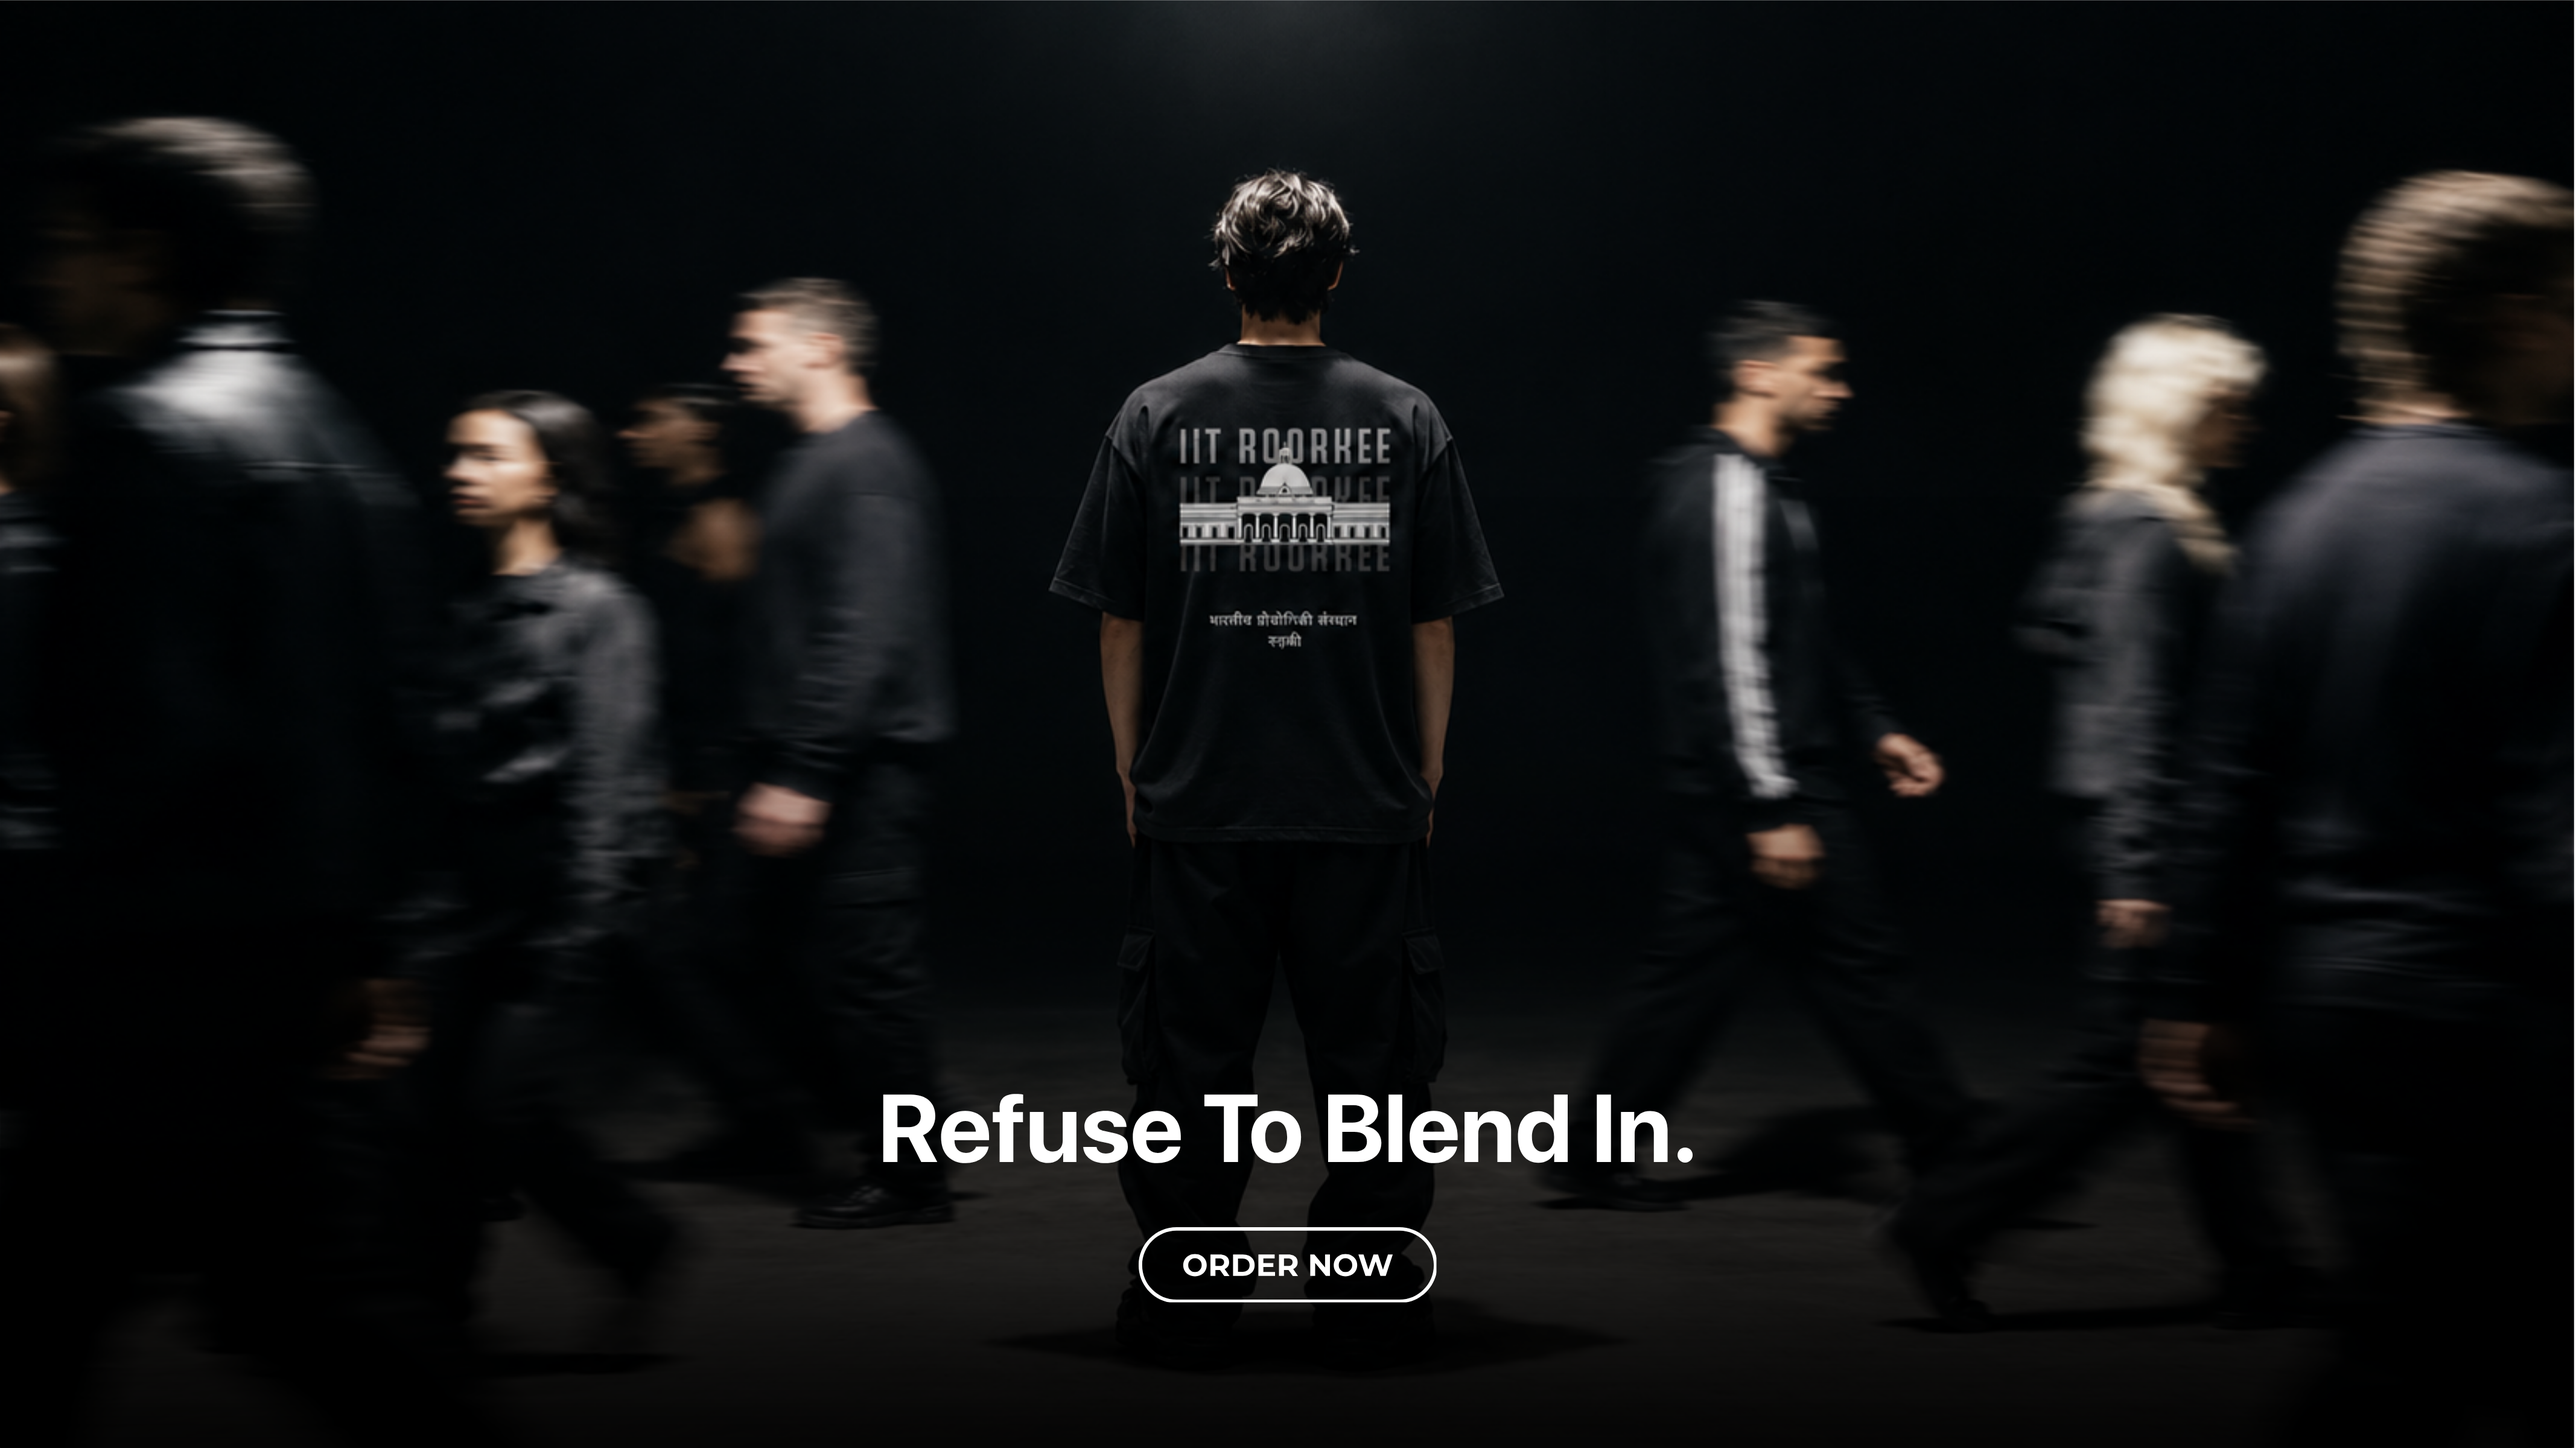
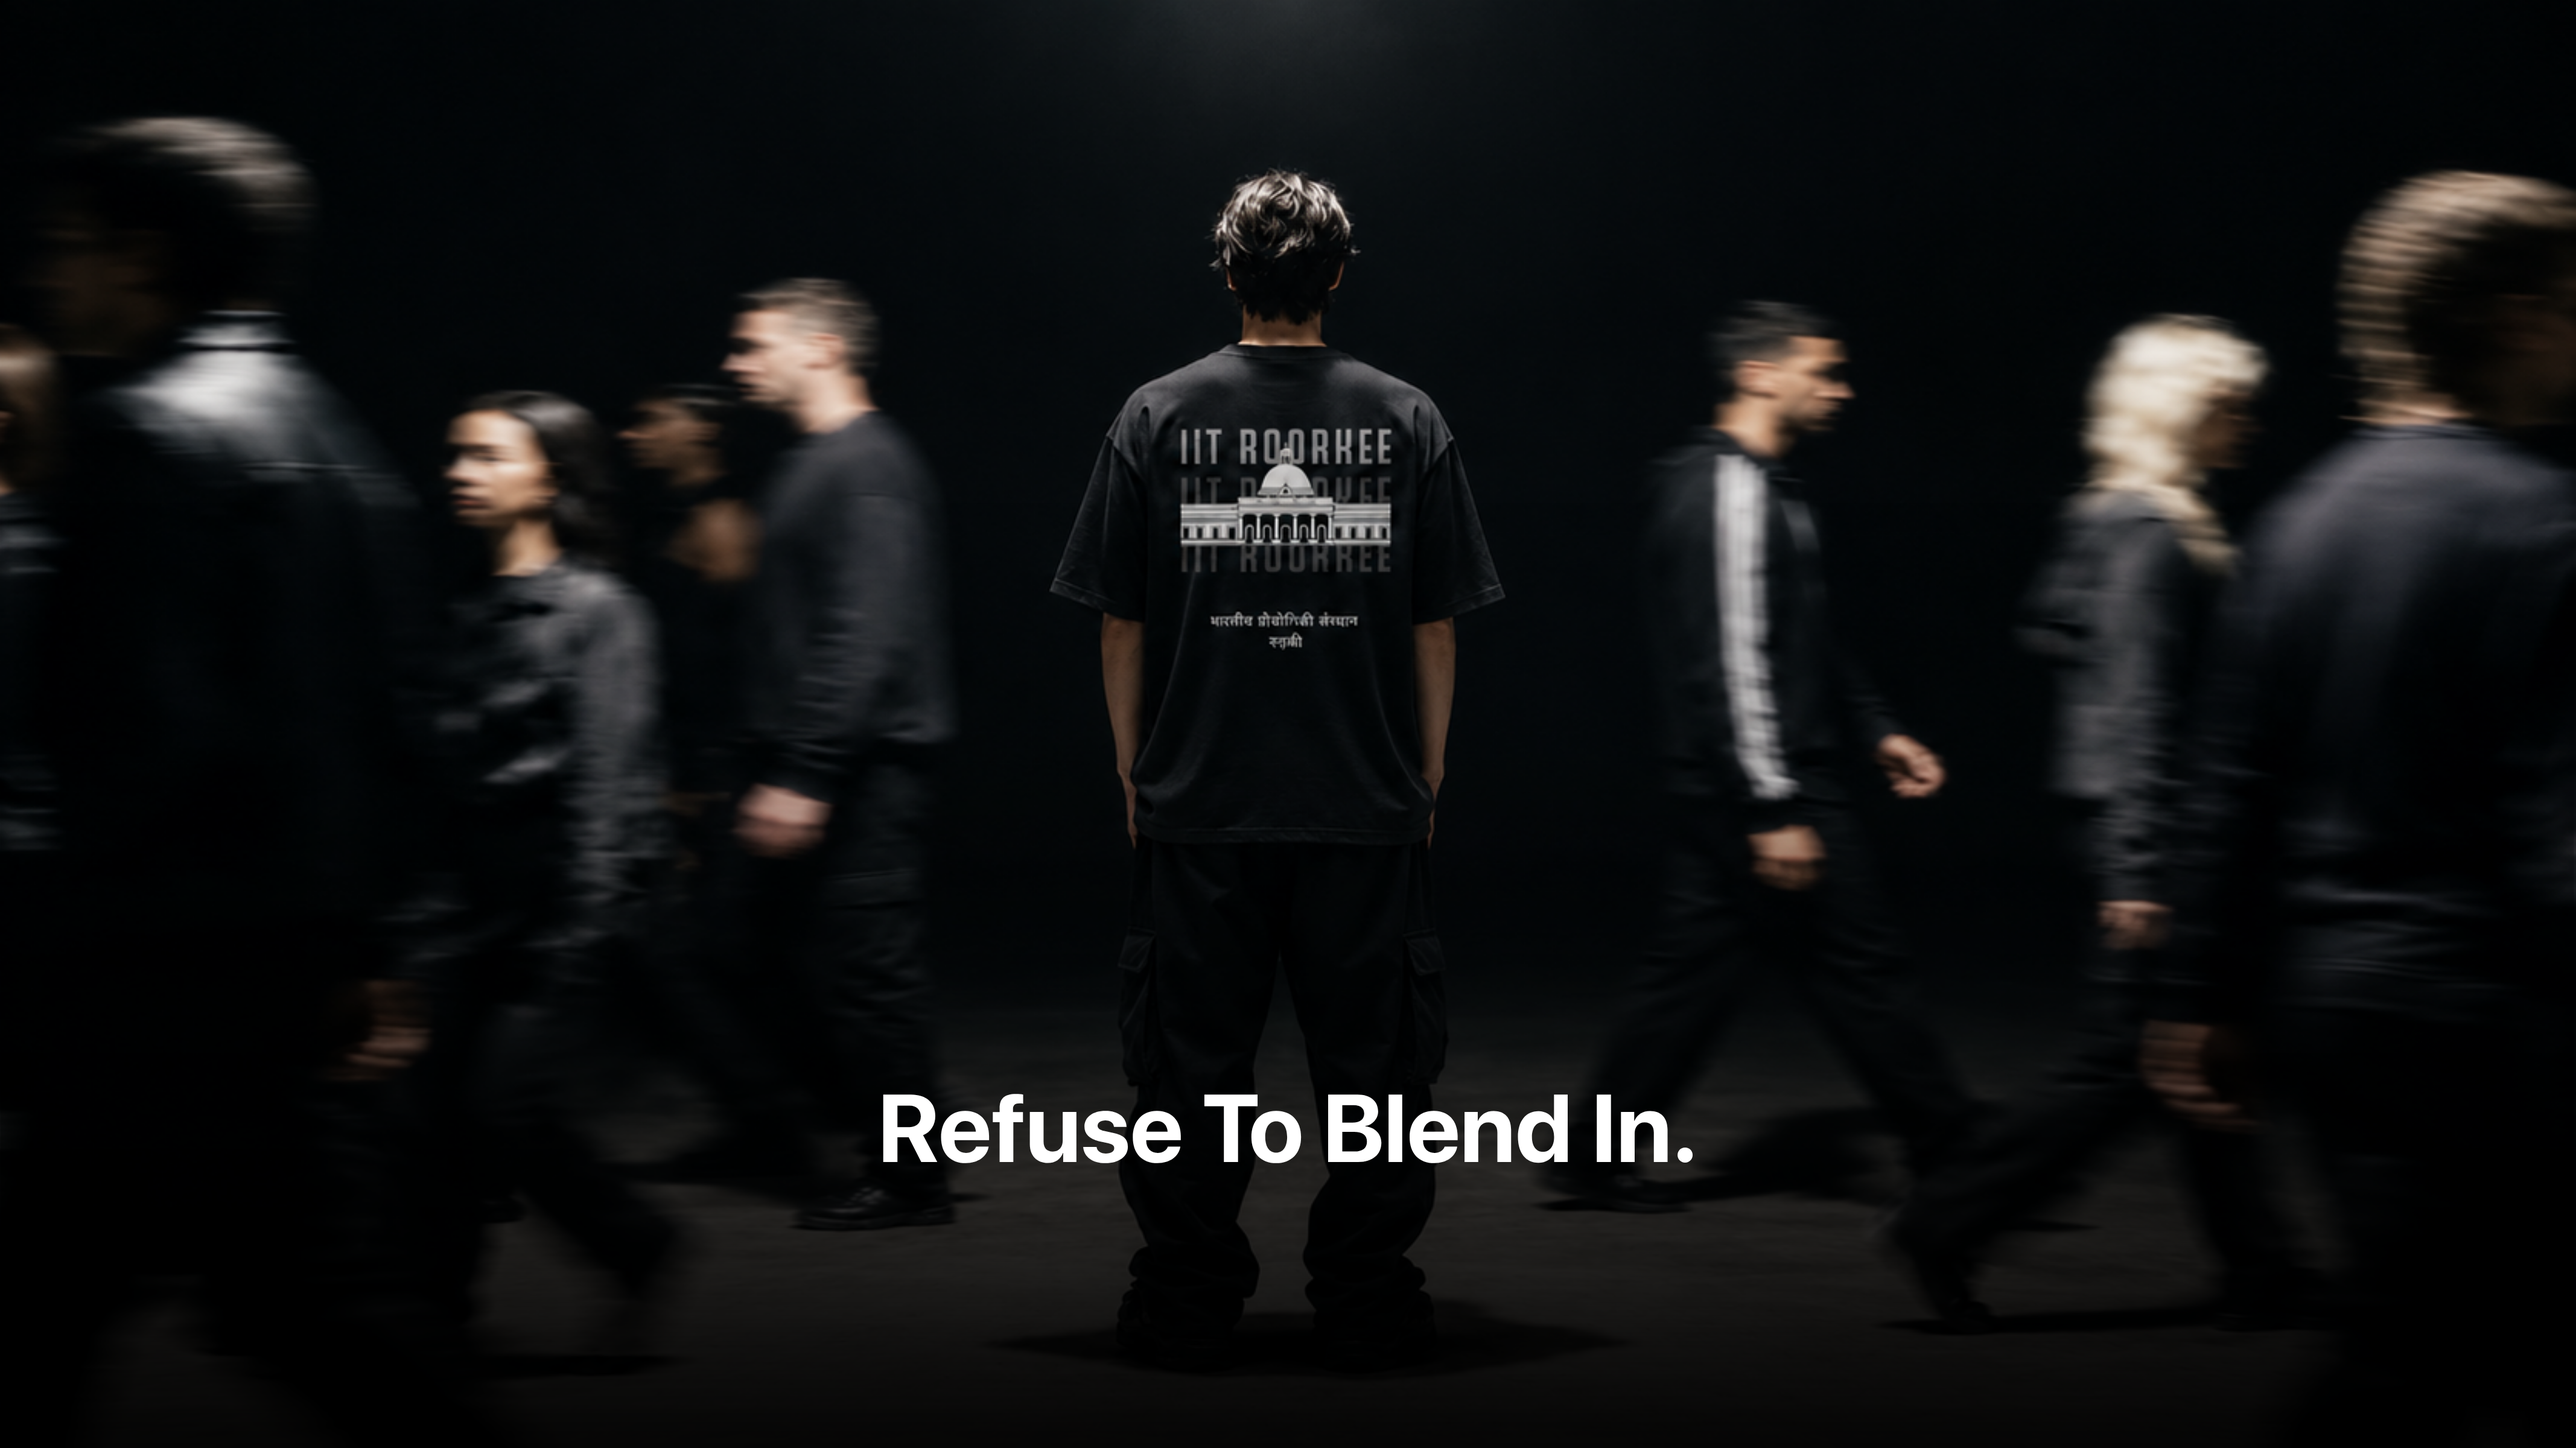
changed the hero page image

diff --git a/src/components/ProductDetailPage.tsx b/src/components/ProductDetailPage.tsx
@@ -37,7 +37,7 @@ export const ProductDetailPage: React.FC<ProductDetailPageProps> = ({
   const images = selectedFit === "Oversized-fit"
     ? (product.imagesOversized && product.imagesOversized.length > 0 ? product.imagesOversized : fallbackPair)
     : (product.imagesRegular && product.imagesRegular.length > 0 ? product.imagesRegular : fallbackPair);
-  const unitPrice = selectedFit === "Oversized-fit" ? product.price + 20 : product.price;
+  const unitPrice = selectedFit === "Oversized-fit" ? product.price + 50 : product.price;
 
   return (
     <div className="fixed inset-0 z-[125] bg-[#FFF8F0] overflow-y-auto text-[#3C1A11]">
@@ -103,7 +103,7 @@ export const ProductDetailPage: React.FC<ProductDetailPageProps> = ({
                       : "border-[#3C1A11]/30 hover:border-[#3C1A11] text-[#3C1A11]"
                   }`}
                 >
-                  Regular-fit (₹{product.price})
+                  Regular-fit
                 </button>
                 <button
                   type="button"
@@ -114,7 +114,7 @@ export const ProductDetailPage: React.FC<ProductDetailPageProps> = ({
                       : "border-[#3C1A11]/30 hover:border-[#3C1A11] text-[#3C1A11]"
                   }`}
                 >
-                  Oversized-fit (+₹20)
+                  Oversized-fit
                 </button>
               </div>
             </div>

diff --git a/src/components/Hero.tsx b/src/components/Hero.tsx
@@ -2,13 +2,17 @@ import React from "react";
 
 export const Hero: React.FC = () => {
   return (
-    <section className="hero hero--0" style={{ backgroundImage: `url('/assets/hero.png')`, backgroundSize: 'cover', backgroundPosition: 'center' }}>
-      <div className="hero__photo" />
-      <div className="hero__content">
-        <span className="eyebrow eyebrow--lime">IIT BOMBAY EXCLUSIVE</span>
-        <h1>CAMPUS, BUT MAKE IT ICONIC.</h1>
-        <p>Official campus-coded drops. Designed by students, for students.</p>
-        <a className="button button--light" href="#shop">
+    <section className="relative w-full h-[85vh] min-h-[500px] overflow-hidden bg-black">
+      <div
+        className="absolute inset-0 w-full h-full bg-contain bg-no-repeat bg-center"
+        style={{ backgroundImage: `url('/assets/hero.png')` }}
+      />
+      <div className="absolute inset-0 bg-black/5" />
+      <div className="absolute inset-x-0 bottom-[27%] z-10 px-4 text-center">
+        <a
+          href="#shop"
+          className="inline-block px-8 py-3.5 bg-black/60 hover:bg-black/90 text-white font-sans font-bold tracking-wider text-sm uppercase rounded-full border border-white/30 backdrop-blur-md transition-all duration-300 shadow-2xl cursor-pointer"
+        >
           ORDER NOW
         </a>
       </div>
